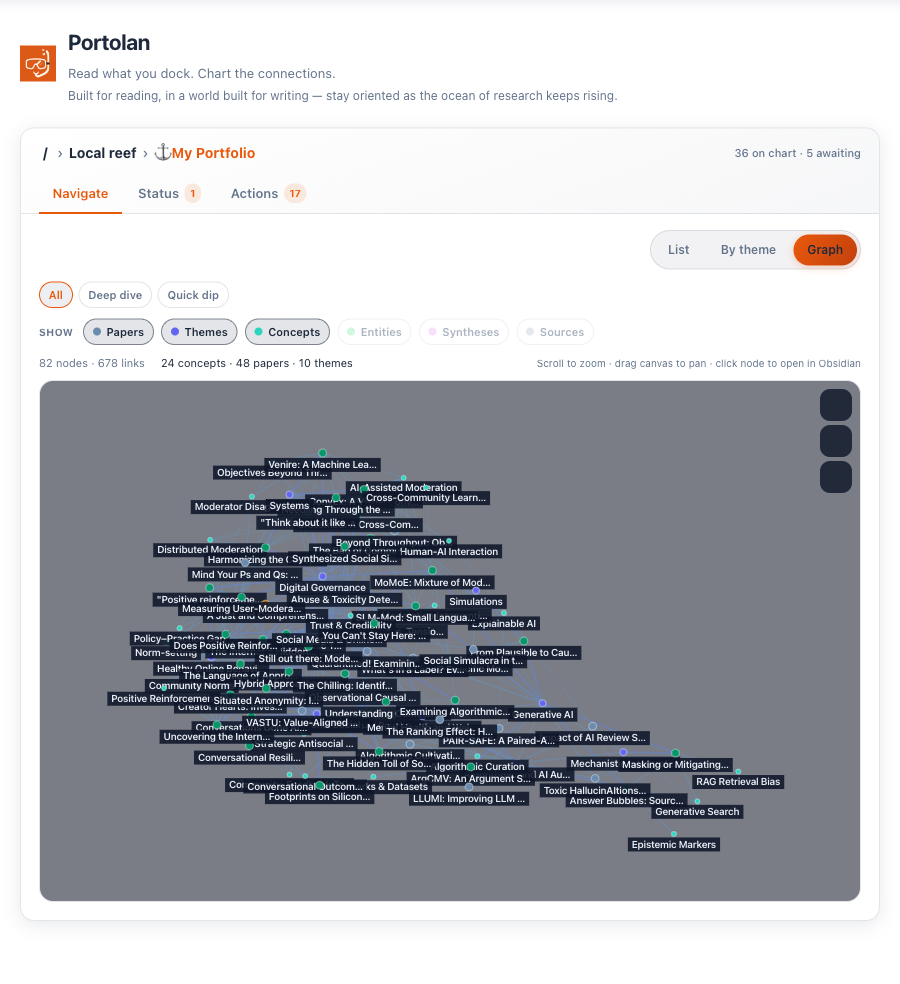
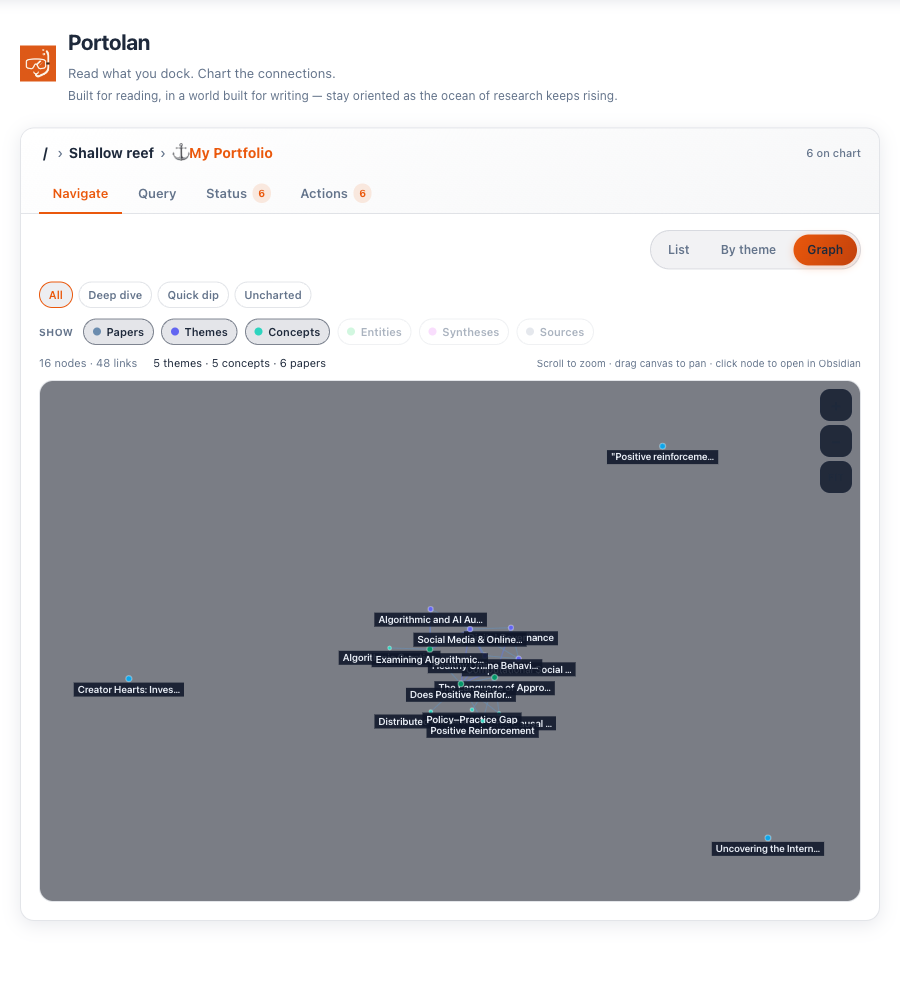
Update hero screenshot for trust-tier Navigate UI.
Refresh portolan-hero.png (Graph + Uncharted/Quick dip/Deep dive filters), fix capture_hero.py navigation, and update README/PORTOLAN/CHANGELOG captions.

diff --git a/manager/scripts/capture_hero.py b/manager/scripts/capture_hero.py
@@ -40,11 +40,21 @@ def main() -> int:
         )
         page.reload(wait_until="networkidle")
 
-        page.get_by_role("button", name="/", exact=True).click()
-        page.get_by_role("button", name="Shallow reef", exact=True).click()
+        # Default load: demo + my-portfolio workspace. If reef picker is open, select Shallow reef.
+        if page.locator(".workspace-shell").count() == 0:
+            if page.get_by_role("button", name="Shallow reef", exact=True).count():
+                page.get_by_role("button", name="Shallow reef", exact=True).click()
+            elif page.get_by_role("button", name="/", exact=True).count():
+                page.get_by_role("button", name="/", exact=True).click()
+                page.get_by_role("button", name="Shallow reef", exact=True).click()
 
-        # vault switch keeps my-portfolio channel → workspace opens directly
-        page.wait_for_selector(".workspace-shell", timeout=15000)
+        # Dock picker may appear after reef switch — open My Portfolio.
+        if page.locator(".workspace-shell").count() == 0:
+            portfolio = page.get_by_role("button").filter(has_text="My Portfolio")
+            if portfolio.count():
+                portfolio.first.click()
+
+        page.wait_for_selector(".workspace-shell", timeout=20000)
         page.get_by_role("tab", name="Graph", exact=True).click()
 
         page.add_style_tag(

diff --git a/docs/CHANGELOG.md b/docs/CHANGELOG.md
@@ -1,5 +1,13 @@
 # Changelog
 
+## v0.6.1 — Trust-tier UI + hero (2026-06-25)
+
+### Changed
+
+- **Hero screenshot** — `docs/images/portolan-hero.png` (Shallow reef · Navigate · Graph; Uncharted / Quick dip / Deep dive filters)
+
+---
+
 ## v0.5.1 — Graph framing + hero (2026-06-25)
 
 ### Fixed

diff --git a/README.md b/README.md
@@ -13,9 +13,9 @@ Portolan is the layer between Zotero and Obsidian. Zotero stores, Obsidian links
 Built by the [SCUBA Lab](https://eshwarchandrasekharan.com/lab.html) at UIUC and shared openly under [MIT](LICENSE). Implements the [LLM Wiki pattern](https://gist.github.com/karpathy/442a6bf555914893e9891c11519de94f) by Andrej Karpathy. The system (**dock → chart → enrich → Obsidian**) is corpus-agnostic: point it at your own papers and notes.
 
 <p align="center">
-  <img src="docs/images/portolan-hero.png" alt="Portolan — Local reef, My Portfolio, Navigate Graph view" width="900">
+  <img src="docs/images/portolan-hero.png" alt="Portolan — Shallow reef, My Portfolio, Navigate Graph with trust-tier filters" width="900">
 </p>
-<p align="center"><em>Local reef · My Portfolio — Navigate · Graph (papers, themes, concepts).</em></p>
+<p align="center"><em>Shallow reef · My Portfolio — Navigate · Graph (Uncharted · Quick dip · Deep dive).</em></p>
 
 ---
 

diff --git a/docs/PORTOLAN.md b/docs/PORTOLAN.md
@@ -13,9 +13,9 @@ Portolan is the layer between Zotero and Obsidian. Zotero stores, Obsidian links
 Built by the [SCUBA Lab](https://eshwarchandrasekharan.com/lab.html) at UIUC and shared openly under [MIT](LICENSE). Implements the [LLM Wiki pattern](https://gist.github.com/karpathy/442a6bf555914893e9891c11519de94f) by Andrej Karpathy. The system (**dock → chart → enrich → Obsidian**) is corpus-agnostic: point it at your own papers and notes.
 
 <p align="center">
-  <img src="docs/images/portolan-hero.png" alt="Portolan — Local reef, My Portfolio, Navigate Graph view" width="900">
+  <img src="docs/images/portolan-hero.png" alt="Portolan — Shallow reef, My Portfolio, Navigate Graph with trust-tier filters" width="900">
 </p>
-<p align="center"><em>Local reef · My Portfolio — Navigate · Graph (papers, themes, concepts).</em></p>
+<p align="center"><em>Shallow reef · My Portfolio — Navigate · Graph (Uncharted · Quick dip · Deep dive).</em></p>
 
 ---
 